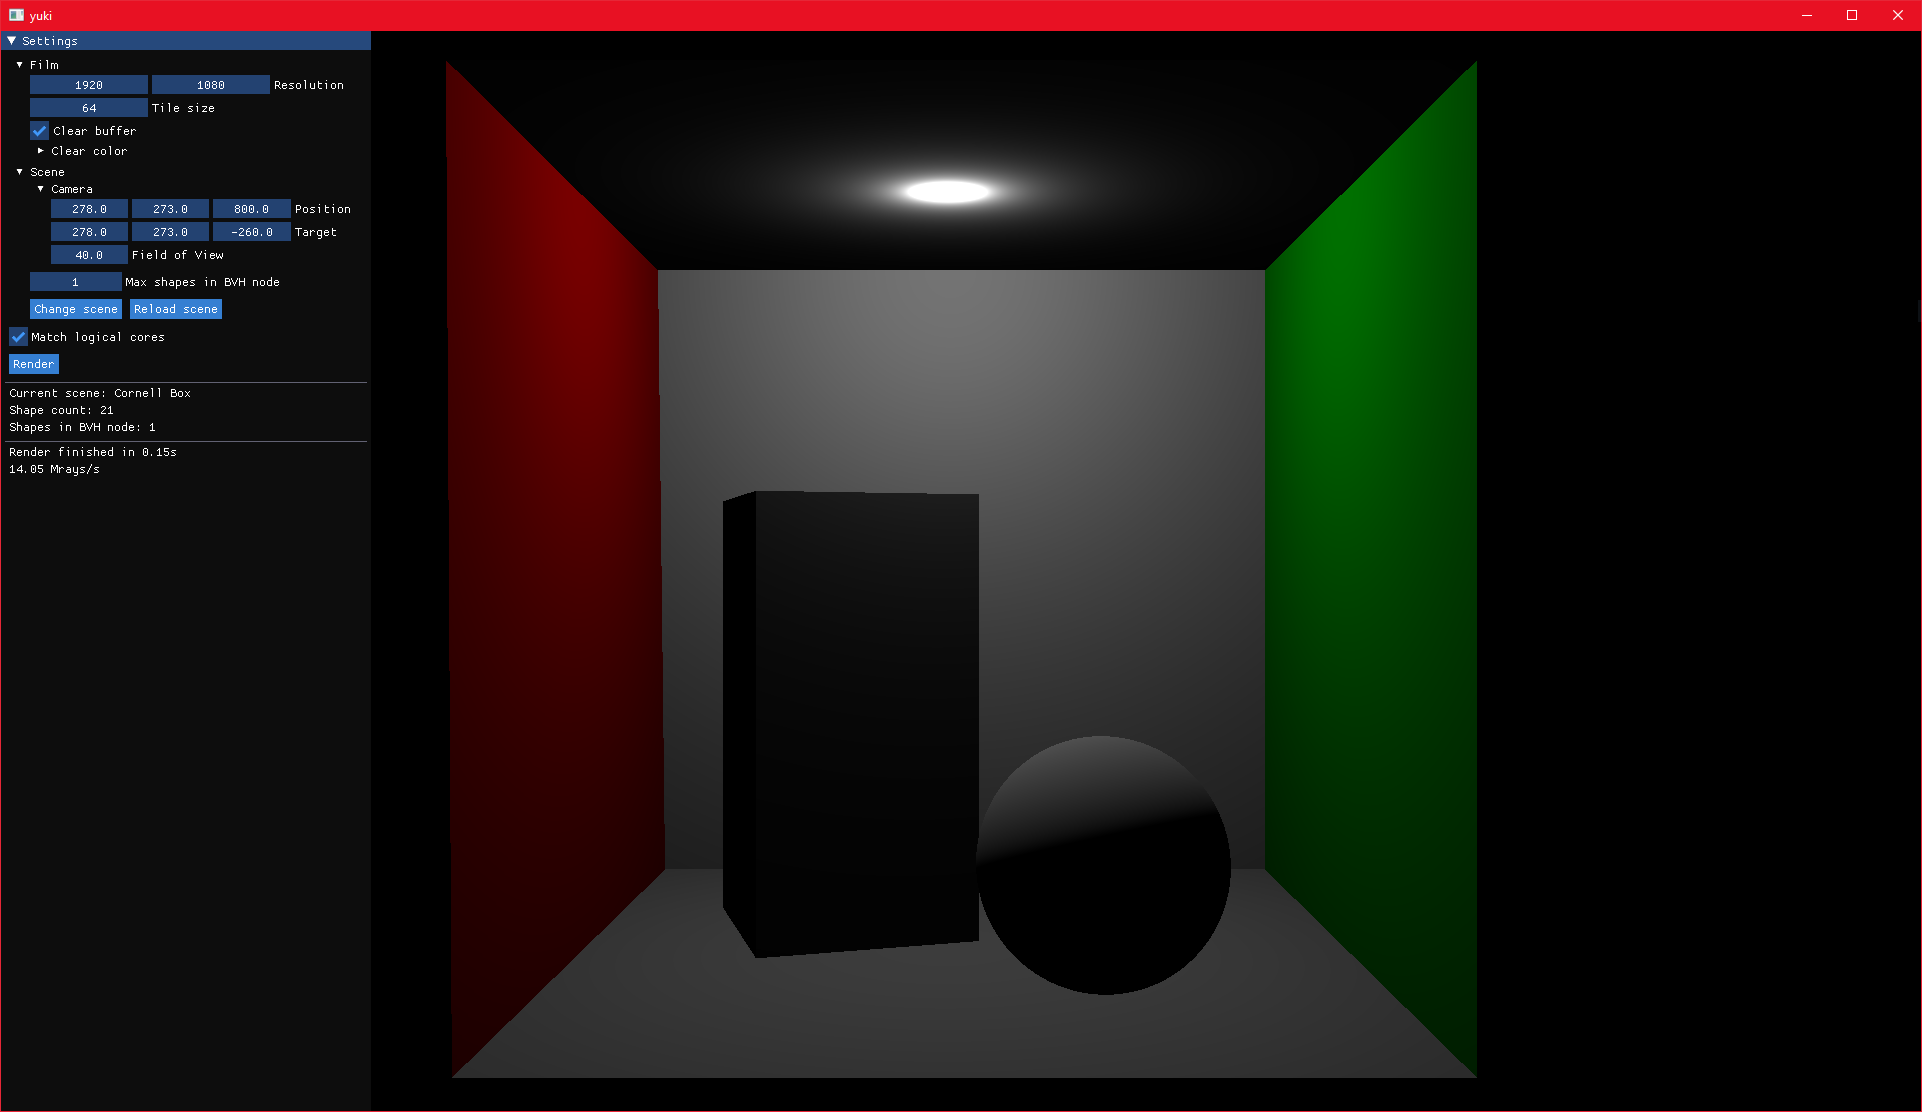
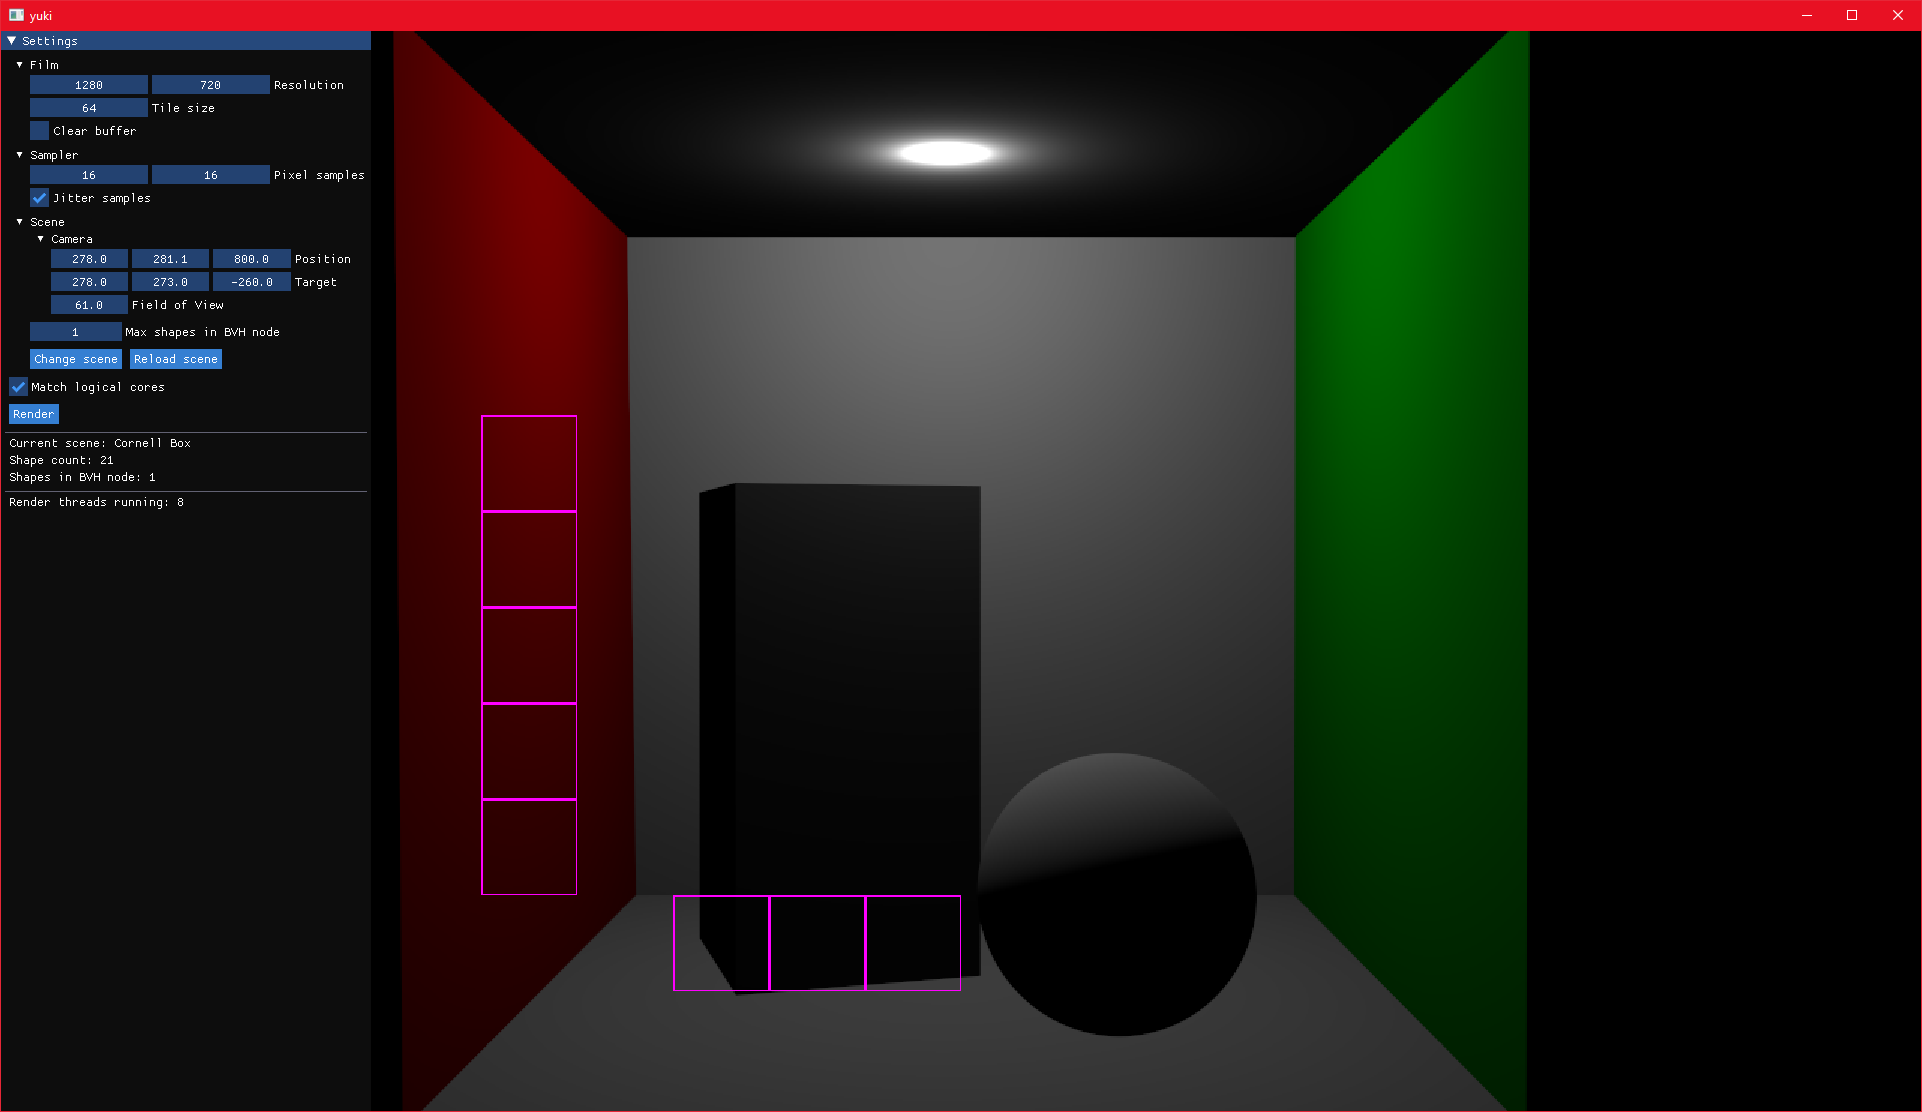
Update readme and screenshot

diff --git a/readme.md b/readme.md
@@ -7,7 +7,7 @@ Ray cast renderer based on [Physically Based Rendering 3rd edition](http://www.p
 UI Features:
 - Uniformly scaling film view
 - ~Non-blocking rendering
-  - Relaunch on changed Film, camera settings
+  - Relaunch on most setting changes
 - Scene formats (partially) supported
   - [PLY](http://paulbourke.net/dataformats/ply/)
   - [Mitsuba 2.0](https://mitsuba2.readthedocs.io/en/latest/)
@@ -15,8 +15,13 @@ UI Features:
 Renderer features:
 - Tile-based rendering
   - Unwinding spiral pattern
+  - Active work tiles are marked (but not separately cleared if render is restarted)
 - BVH
 - View rays only, direct lighting
+- Stratified sampling
+- Light types
+  - Point
+  - Spot
 
 ## yuki_derive
 
